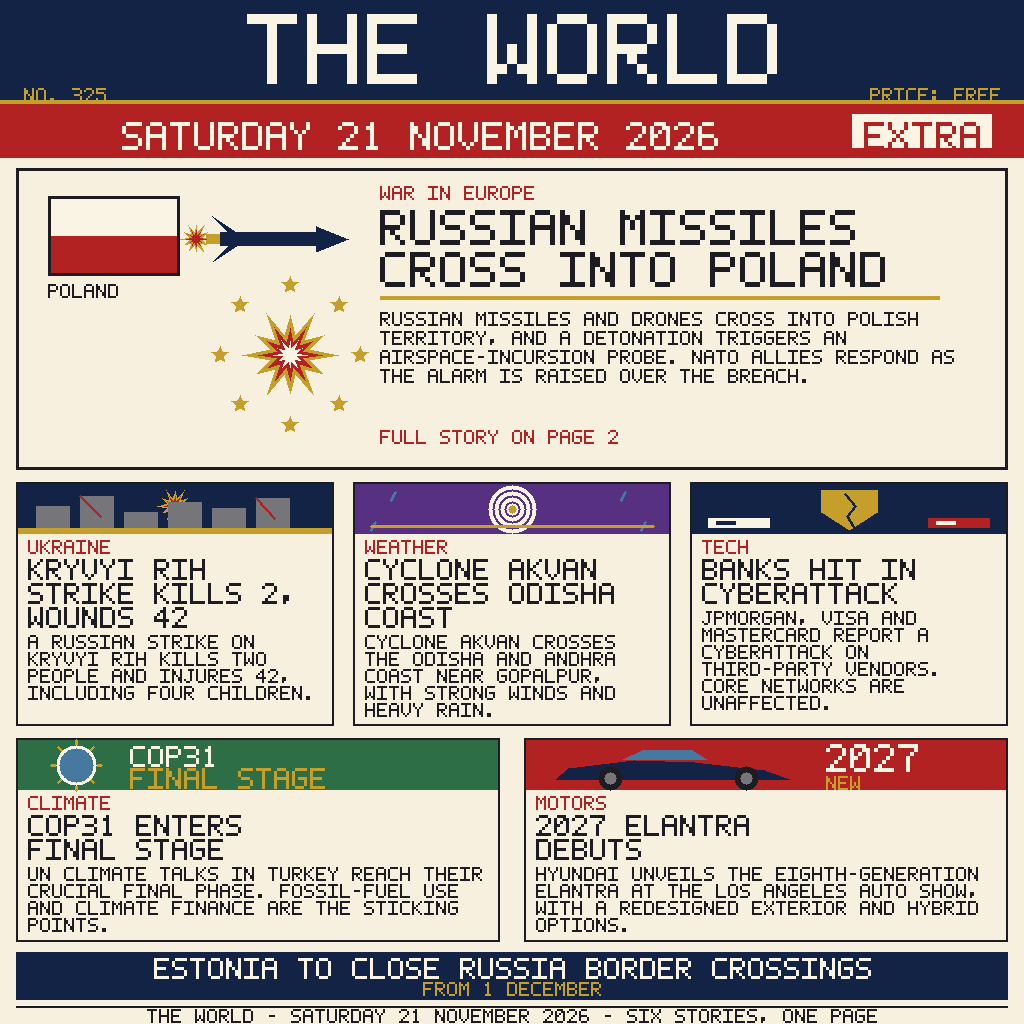
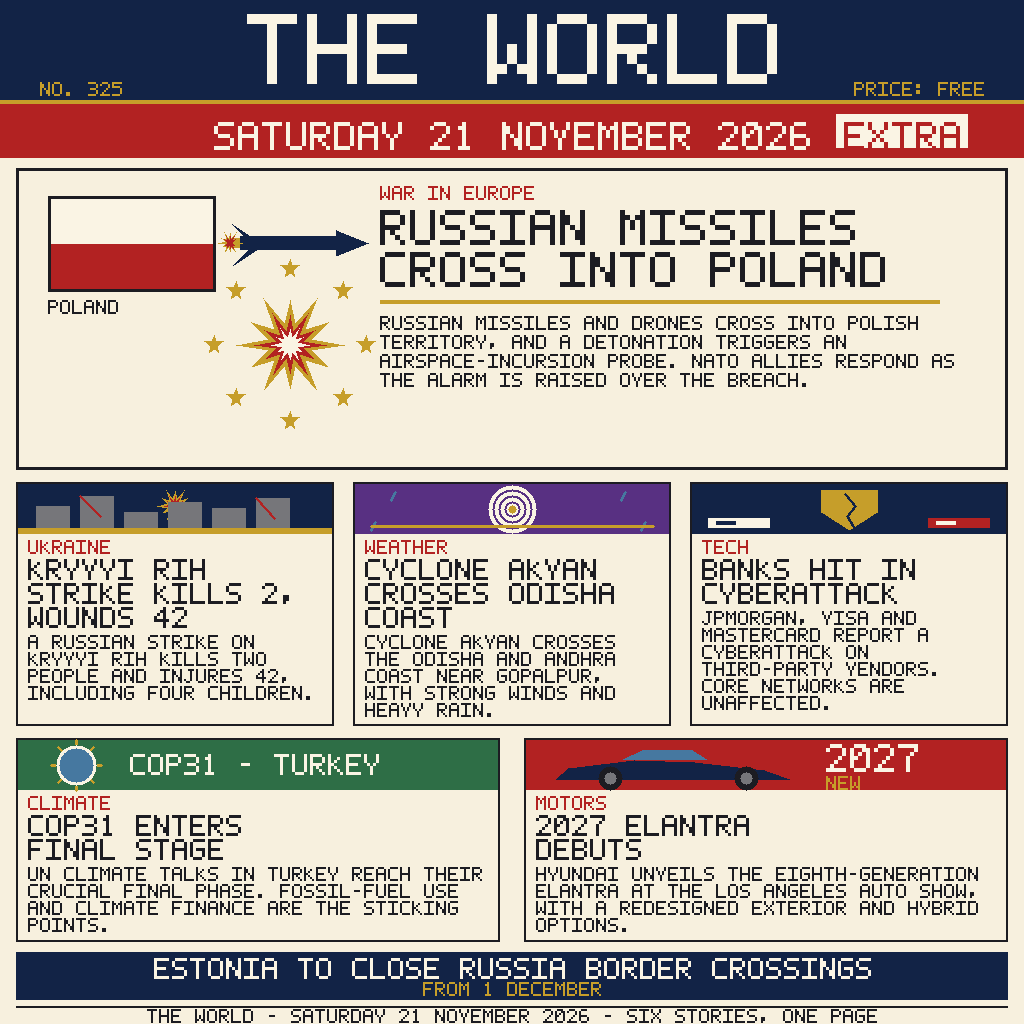
Finals hardening v2: legible V/K glyphs, inset masthead texts, COP31 venue band, rebalanced lead
- Redesign V as a sharp chevron converging from row 2 (was near-identical
  to U, so AKVAN read as AKUAN and NOVEMBER as NOUEMBER at judge size);
  K drops its top-right tip so it cannot read as a T (CYBERATTACK);
  Y keeps wide arms through row 2 so it cannot read as V; 5 gets a clean
  right stem. Full A-Z/0-9 audit, verified on a test strip at full size
  and downscaled to 300px.
- Inset NO. 325 (x 24->40) and PRICE: FREE (right edge 1000->984) and
  the EXTRA badge (852->836, ends 968); move the small masthead texts
  up to y=82 so the gold rule no longer slices their bottom rows.
  Recentre the date band on the page (420->512).
- Climate band now reads COP31 - TURKEY (venue) instead of repeating
  the COP31 ENTERS FINAL STAGE headline below it.
- Remove FULL STORY ON PAGE 2 (no page 2); enlarge the Poland flag
  and missile, move the starburst up and enlarge it to close the gap
  under the flag.
- main.py docstring notes the v2 entry.

diff --git a/gen.py b/gen.py
@@ -33,6 +33,12 @@ DARKRED = (120, 22, 22)
 # ------------------------------------------------------- 5x7 bitmap font
 # Each glyph is seven rows of five cells; '#' is ink, '.' is blank.
 # Shapes drawn from memory of ordinary block capitals.
+# v2 audit: 'V' is a sharp chevron converging from row 2 (never a 'U',
+# whose sides stay vertical to a flat base); 'K' has no top-right tip
+# so its top row cannot read as a 'T' bar; 'Y' keeps wide arms through
+# row 2 so it cannot read as 'V'; '5' keeps a clean right stem. The
+# rest of A-Z / 0-9 were checked for downscale confusion (M/N, G/C,
+# D/O, B/8, I/1, S/5, R/P, O/0) and left as drawn.
 GLYPHS = {
     "A": (".###.", "#...#", "#...#", "#####", "#...#", "#...#", "#...#"),
     "B": ("####.", "#...#", "#...#", "####.", "#...#", "#...#", "####."),
@@ -44,7 +50,7 @@ GLYPHS = {
     "H": ("#...#", "#...#", "#...#", "#####", "#...#", "#...#", "#...#"),
     "I": ("#####", "..#..", "..#..", "..#..", "..#..", "..#..", "#####"),
     "J": ("..###", "...#.", "...#.", "...#.", "...#.", "#..#.", ".##.."),
-    "K": ("#...#", "#..#.", "#.#..", "##...", "#.#..", "#..#.", "#...#"),
+    "K": ("#....", "#..#.", "#.#..", "##...", "#.#..", "#..#.", "#...#"),
     "L": ("#....", "#....", "#....", "#....", "#....", "#....", "#####"),
     "M": ("#...#", "##.##", "#.#.#", "#.#.#", "#...#", "#...#", "#...#"),
     "N": ("#...#", "##..#", "##..#", "#.#.#", "#..##", "#..##", "#...#"),
@@ -55,17 +61,17 @@ GLYPHS = {
     "S": (".####", "#....", "#....", ".###.", "....#", "....#", "####."),
     "T": ("#####", "..#..", "..#..", "..#..", "..#..", "..#..", "..#.."),
     "U": ("#...#", "#...#", "#...#", "#...#", "#...#", "#...#", ".###."),
-    "V": ("#...#", "#...#", "#...#", "#...#", "#...#", ".#.#.", "..#.."),
+    "V": ("#...#", "#...#", ".#.#.", ".#.#.", "..#..", "..#..", "..#.."),
     "W": ("#...#", "#...#", "#...#", "#.#.#", "#.#.#", "##.##", "#...#"),
     "X": ("#...#", "#...#", ".#.#.", "..#..", ".#.#.", "#...#", "#...#"),
-    "Y": ("#...#", "#...#", ".#.#.", "..#..", "..#..", "..#..", "..#.."),
+    "Y": ("#...#", "#...#", "#...#", ".#.#.", "..#..", "..#..", "..#.."),
     "Z": ("#####", "....#", "...#.", "..#..", ".#...", "#....", "#####"),
     "0": (".###.", "#..##", "#.#.#", "##..#", "#...#", "#...#", ".###."),
     "1": ("..#..", ".##..", "..#..", "..#..", "..#..", "..#..", ".###."),
     "2": (".###.", "#...#", "....#", "...#.", "..#..", ".#...", "#####"),
     "3": ("####.", "....#", "....#", ".###.", "....#", "....#", "####."),
     "4": ("...#.", "..##.", ".#.#.", "#..#.", "#####", "...#.", "...#."),
-    "5": ("#####", "#....", "####.", "....#", "....#", "#...#", ".###."),
+    "5": ("#####", "#....", "####.", "....#", "....#", "....#", "####."),
     "6": (".###.", "#....", "#....", "####.", "#...#", "#...#", ".###."),
     "7": ("#####", "....#", "...#.", "..#..", "..#..", "..#..", "..#.."),
     "8": (".###.", "#...#", "#...#", ".###.", "#...#", "#...#", ".###."),
@@ -269,29 +275,30 @@ class FrontPage:
 # ------------------------------------------------------------- pictograms
 def lead_art(page):
     """Polish flag, missile and burst for the lead panel."""
-    # Polish flag: white over red.
-    page.block(48, 196, 132, 40, CREAM)
-    page.block(48, 236, 132, 40, RED)
-    page.outline(48, 196, 132, 80, INK, 3)
-    page.write(48, 284, "POLAND", 2, INK)
+    # Polish flag: white over red (v2: enlarged to fill the lead panel).
+    page.block(48, 196, 168, 48, CREAM)
+    page.block(48, 244, 168, 48, RED)
+    page.outline(48, 196, 168, 96, INK, 3)
+    page.write(48, 300, "POLAND", 2, INK)
     # Missile body, horizontal, nose to the right.
-    page.block(220, 232, 96, 14, NAVY)
-    page.fill_poly([(316, 226), (348, 239), (316, 252)], NAVY)
-    page.fill_poly([(228, 246), (212, 262), (236, 246)], NAVY)
-    page.fill_poly([(228, 232), (212, 216), (236, 232)], NAVY)
-    page.block(206, 234, 14, 10, GOLD)
+    page.block(240, 236, 96, 14, NAVY)
+    page.fill_poly([(336, 230), (368, 243), (336, 256)], NAVY)
+    page.fill_poly([(248, 250), (232, 266), (256, 250)], NAVY)
+    page.fill_poly([(248, 240), (232, 224), (256, 240)], NAVY)
+    page.block(226, 238, 14, 10, GOLD)
     # Flame trail behind the missile.
-    page.burst(196, 239, 16, 7, GOLD)
-    page.burst(196, 239, 10, 4, RED)
+    page.burst(230, 243, 12, 5, GOLD)
+    page.burst(230, 243, 8, 3, RED)
     # Explosion burst and a ring of small gold stars (NATO allies).
-    page.burst(290, 355, 48, 20, GOLD)
-    page.burst(290, 355, 32, 13, RED)
-    page.burst(290, 355, 17, 7, CREAM)
+    # v2: burst enlarged and moved up to close the empty gap under the flag.
+    page.burst(290, 345, 54, 22, GOLD)
+    page.burst(290, 345, 36, 14, RED)
+    page.burst(290, 345, 19, 8, CREAM)
     for k in range(8):
         angle = k * math.pi / 4
-        sx = int(290 + 70 * math.cos(angle))
-        sy = int(355 + 70 * math.sin(angle))
-        page.star(sx, sy, 9, 4, GOLD)
+        sx = int(290 + 76 * math.cos(angle))
+        sy = int(345 + 76 * math.sin(angle))
+        page.star(sx, sy, 10, 4, GOLD)
 
 
 def strike_art(page, x, y, w, h):
@@ -356,8 +363,10 @@ def cop_art(page, x, y, w, h):
     page.disc(cx + 7, cy + 7, 7, GREEN)
     page.disc(cx + 8, cy - 8, 4, GREEN)
     page.ring(cx, cy, 20, 3, CREAM, SKY)
-    page.write(x + 112, y + 6, "COP31", 3, CREAM)
-    page.write(x + 112, y + 28, "FINAL STAGE", 3, GOLD)
+    # v2: band names the venue (COP31 - TURKEY) instead of repeating the
+    # headline below it ("COP31 ENTERS FINAL STAGE"). The bitmap font has
+    # no middle-dot glyph, so the separator is a hyphen.
+    page.write(x + 112, y + 14, "COP31 - TURKEY", 3, CREAM)
 
 
 def car_art(page, x, y, w, h):
@@ -410,16 +419,18 @@ def build_page():
 
     # -- masthead: deep navy band with the cream wordmark ----------------
     page.block(0, 0, PAGE_W, 104, NAVY)
-    page.write(24, 88, "No. 325", 2, GOLD)
-    page.write(1000, 88, "PRICE: FREE", 2, GOLD, align="right")
+    # v2: small texts sit at y=82 so their 14px glyphs (82..95) clear the
+    # gold rule at y=100; at y=88 their bottom rows were sliced by it.
+    page.write(40, 82, "No. 325", 2, GOLD)
+    page.write(984, 82, "PRICE: FREE", 2, GOLD, align="right")
     page.write(PAGE_W // 2, 14, "THE WORLD", 10, CREAM, align="center")
     page.block(0, 100, PAGE_W, 4, GOLD)
 
     # -- red date band ---------------------------------------------------
     page.block(0, 104, PAGE_W, 54, RED)
-    page.write(420, 122, "SATURDAY 21 NOVEMBER 2026", 4, CREAM, align="center")
-    page.block(852, 114, 140, 34, CREAM)
-    page.write(922, 122, "EXTRA", 4, RED, align="center")
+    page.write(512, 122, "SATURDAY 21 NOVEMBER 2026", 4, CREAM, align="center")
+    page.block(836, 114, 132, 34, CREAM)
+    page.write(902, 122, "EXTRA", 4, RED, align="center")
 
     # -- lead story ------------------------------------------------------
     page.outline(16, 168, 992, 302, INK, 3)
@@ -427,10 +438,10 @@ def build_page():
     page.write(380, 186, "WAR IN EUROPE", 2, RED)
     page.write(380, 210, "RUSSIAN MISSILES", 5, INK)
     page.write(380, 252, "CROSS INTO POLAND", 5, INK)
-    page.block(380, 296, 560, 4, GOLD)
+    page.block(380, 300, 560, 4, GOLD)
     page.paragraph(
         380,
-        312,
+        316,
         "Russian missiles and drones cross into Polish territory, and a "
         "detonation triggers an airspace-incursion probe. NATO allies "
         "respond as the alarm is raised over the breach.",
@@ -439,7 +450,6 @@ def build_page():
         600,
         gap=5,
     )
-    page.write(380, 430, "FULL STORY ON PAGE 2", 2, RED)
 
     # -- grid row one: three panels --------------------------------------
     story_panel(

diff --git a/main.py b/main.py
@@ -1,5 +1,5 @@
 #!/usr/bin/env python3
-"""Entrypoint for the news-image-20261121 make.fun entry.
+"""Entrypoint for the news-image-20261121 make.fun entry (v2 finals hardening).
 
 Reads entry.png from this directory, validates that it is a well-formed
 1024x1024 8-bit RGB PNG under 1 MiB, then copies it byte-for-byte to
